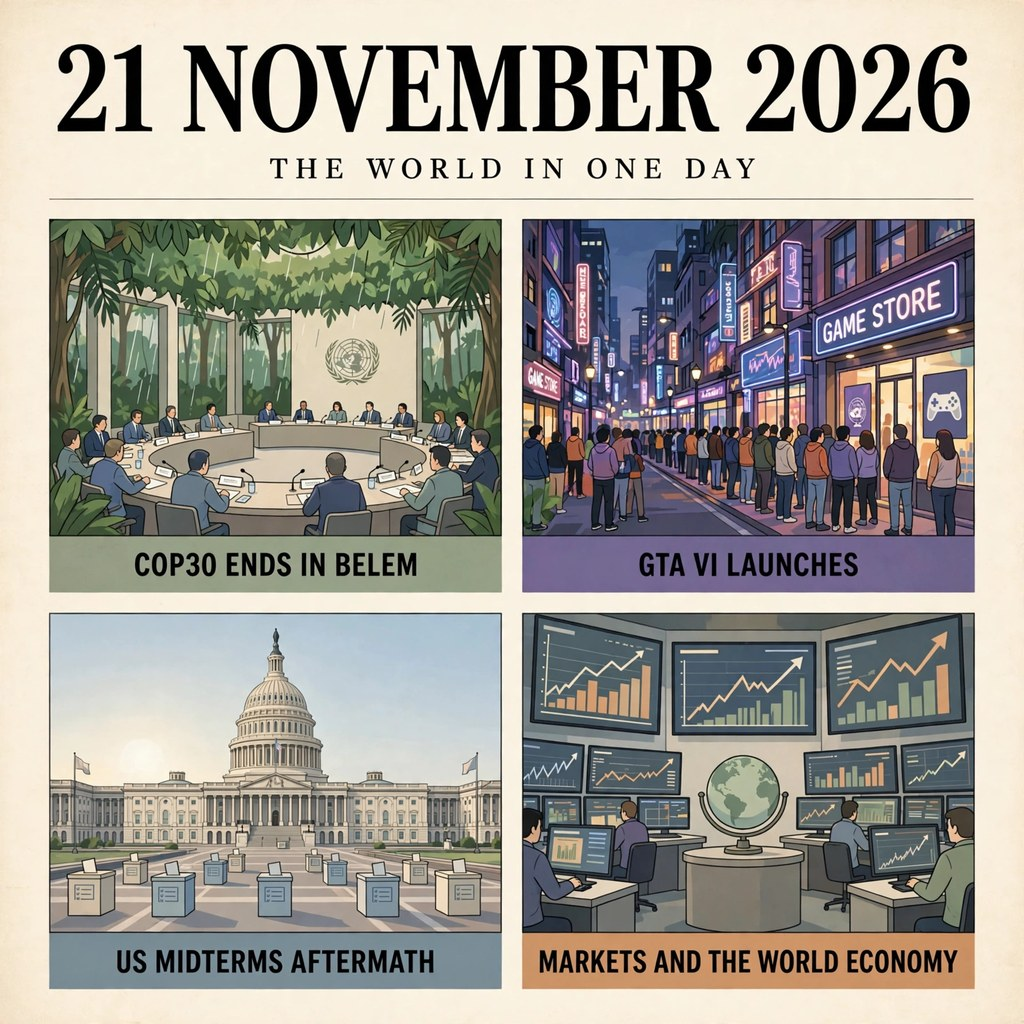
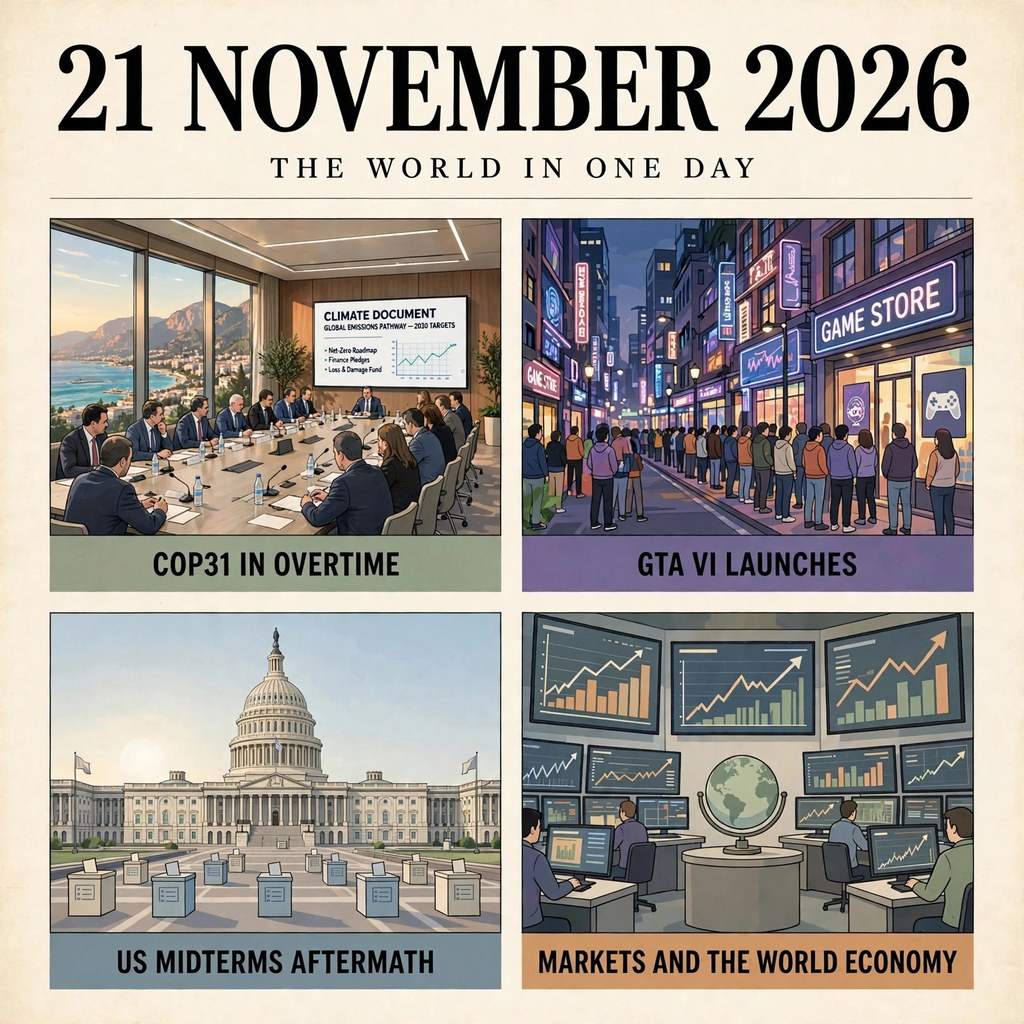
Replace COP30 panel with COP31 in overtime in Antalya
The judge flagged the COP30 panel as wrong: COP30 ended in November
2025 in Belem, not 21 November 2026. The new panel shows the COP31
summit in Antalya, Türkiye, deadlocked with talks in overtime on
Saturday 21 November 2026. main.ts now also checks the JPEG magic
bytes and end marker so a truncated file fails loudly.

diff --git a/main.ts b/main.ts
@@ -10,6 +10,16 @@ const outDir = process.env.MAKEFUN_OUTPUT_DIR ?? '/output';
 mkdirSync(outDir, { recursive: true });
 const bytes = readFileSync(new URL('./entry.png', import.meta.url));
 if (bytes.length === 0) throw new Error('entry.png is empty');
+// The entry is a JPEG: its first three bytes must be FF D8 FF, so a
+// wrongly saved file is caught here instead of scoring 0 at the gate.
+if (bytes[0] !== 0xff || bytes[1] !== 0xd8 || bytes[2] !== 0xff) {
+  throw new Error('entry.png is not a JPEG');
+}
+// A whole JPEG ends with the FF D9 end marker; a truncated file must not
+// reach the grader.
+if (bytes[bytes.length - 2] !== 0xff || bytes[bytes.length - 1] !== 0xd9) {
+  throw new Error('entry.png is truncated: missing JPEG end marker');
+}
 const outPath = join(outDir, 'entry.png');
 writeFileSync(outPath, bytes);
 // Verify the copy landed intact: a truncated output would score 0, so

diff --git a/README.md b/README.md
@@ -4,7 +4,7 @@
 [![rank](https://make.fun/badge/news-image-20261121/sm90928/news-image-20261121/rank.svg)](https://make.fun/bounty/news-image-20261121/leaderboard?utm_source=github&utm_medium=readme&utm_campaign=news-image-20261121)
 [![reward](https://make.fun/badge/news-image-20261121/sm90928/news-image-20261121/reward.svg)](https://make.fun/bounty/news-image-20261121?utm_source=github&utm_medium=readme&utm_campaign=news-image-20261121)
 
-A newspaper-style front page summing up Saturday 21 November 2026: COP30 ends in Belém, GTA VI launches, the US midterms aftermath, and markets and the world economy.
+A newspaper-style front page summing up Saturday 21 November 2026: COP31 in overtime in Antalya, GTA VI launches, the US midterms aftermath, and markets and the world economy.
 
 ## Run it
 
